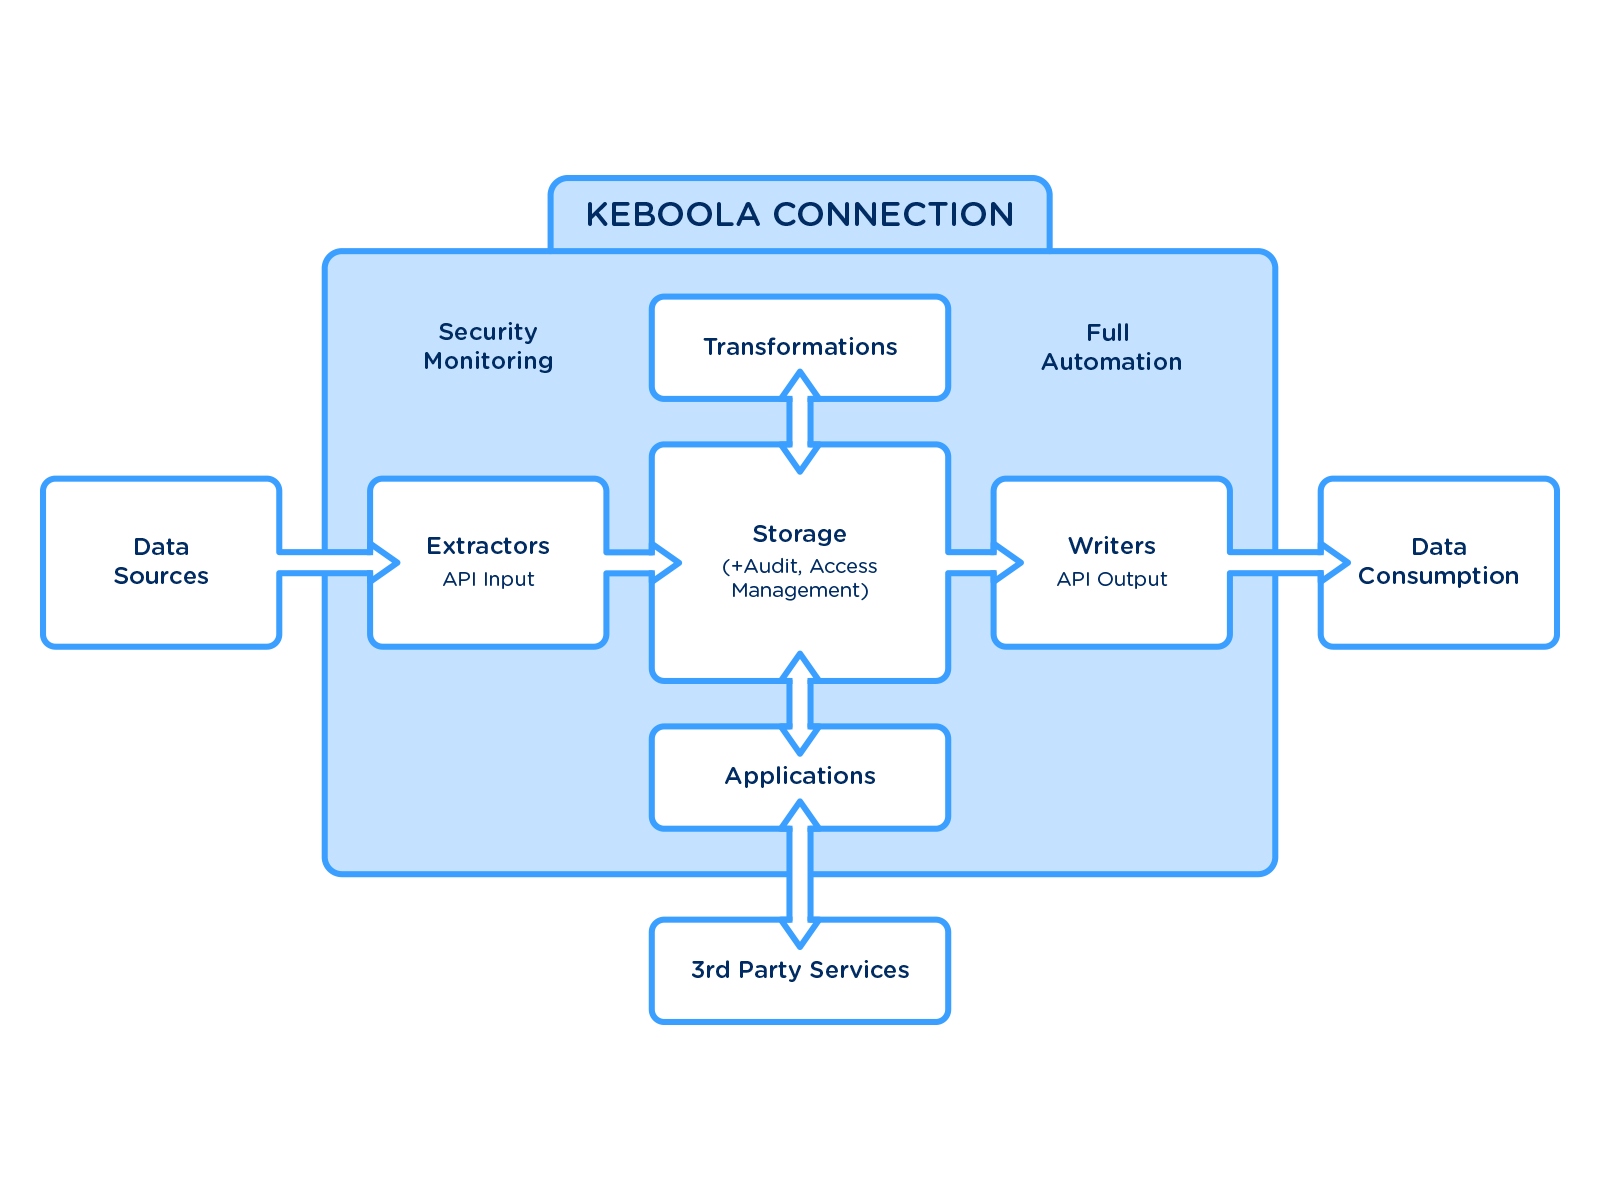
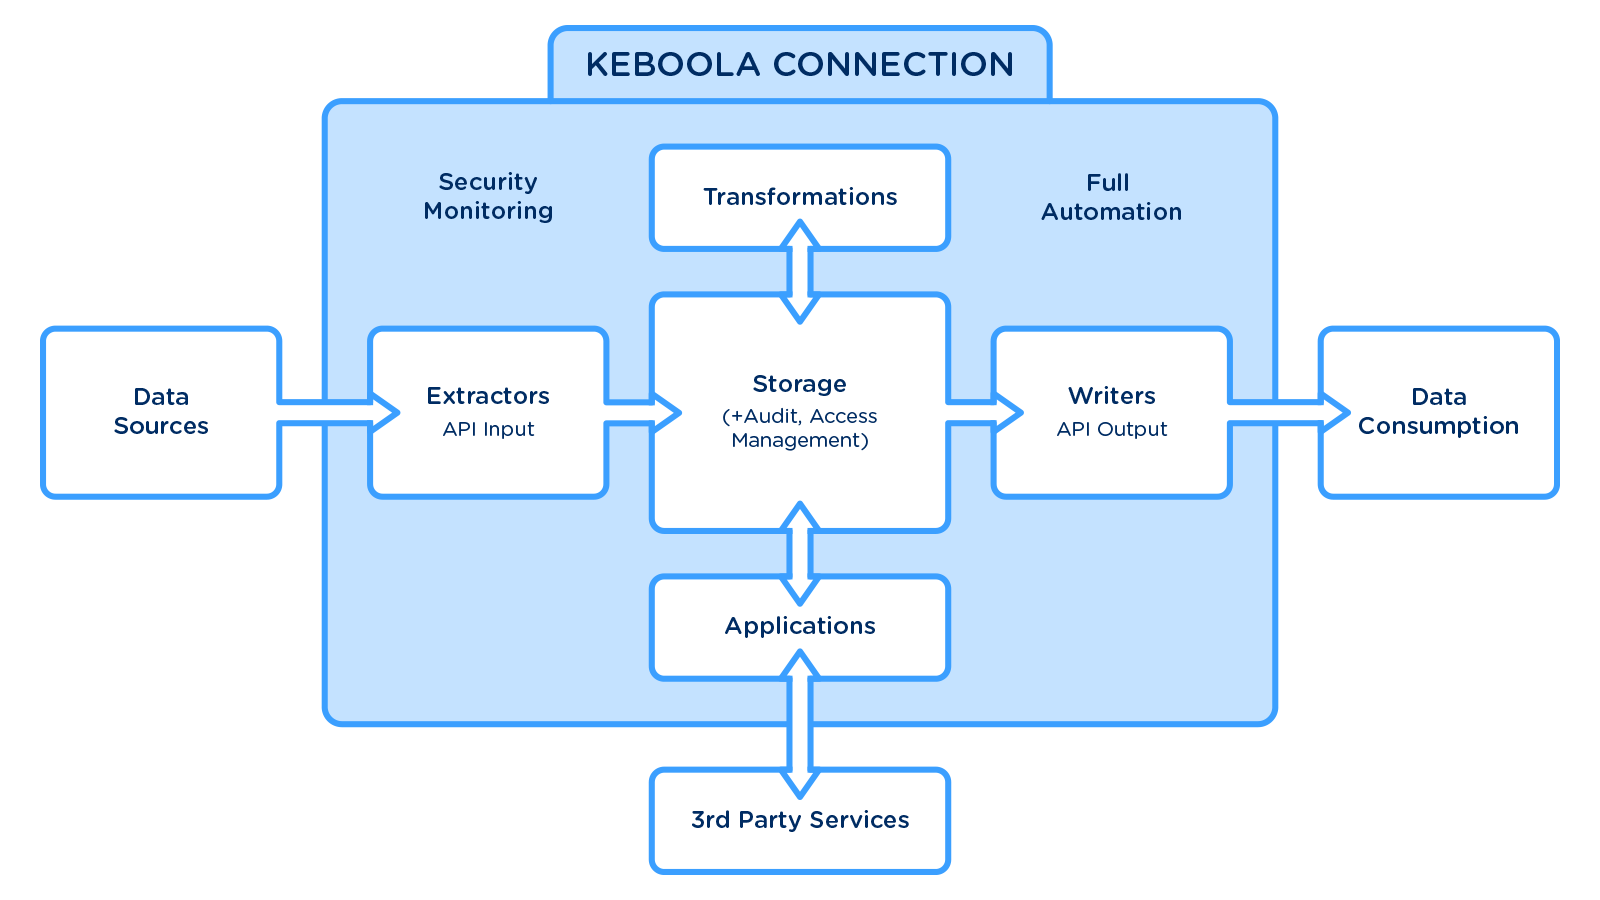
new font added + typography tuning

diff --git a/src/styles/app.less b/src/styles/app.less
@@ -264,7 +264,7 @@ a .kbcComponentIcon-3rdParty-64px {
     background-color: @color1;
     background-position: right -30px top -20px;
     background-repeat: no-repeat;
-    padding: 40px 30px;
+    padding: 40px 50px;
     color: #fff;
     min-height: 410px;
     border-radius: 5px;
@@ -276,15 +276,22 @@ a .kbcComponentIcon-3rdParty-64px {
     p {
       font-size: 14px;
       padding-top: 16px;
+      line-height: 1.5;
     }
     h1 {
-      font-size: 46px;
-      font-weight: bold;
+      font-size: 36px;
+      line-height: 40px;
+      font-family: "Gotham Rounded A", "Gotham Rounded B";
+      font-weight: 500;
+      margin-top: 0px;
     }
     h2 {
-      font-size: 46px;
-      line-height: 32px;
-      max-width: 80%
+      font-size: 36px;
+      line-height: 40px;
+      max-width: 80%;
+      font-family: "Gotham Rounded A", "Gotham Rounded B";
+      font-weight: 300;
+      margin-bottom: 0px;
     }
     ul {
       list-style: none;
@@ -292,7 +299,8 @@ a .kbcComponentIcon-3rdParty-64px {
       padding-left: 20px;
     }
     li {
-      padding: 4px 8px;
+      //padding: 4px 8px;
+      line-height: 1.5;
     }
     strong {
       font-weight: bold;
@@ -317,7 +325,13 @@ a .kbcComponentIcon-3rdParty-64px {
       float: left;
       font-size: 19px;
       line-height: 23px;
-      margin-left: 110px;
+      font-family: "Gotham Rounded A", "Gotham Rounded B";
+      font-weight: 300;
+      &:first-of-type{
+        font-weight: 500;
+        margin-left: 110px;
+
+      }
     }
     a {
       float: right;
@@ -327,9 +341,13 @@ a .kbcComponentIcon-3rdParty-64px {
         text-decoration: none;
       }
     }
+    strong{
+      font-weight: 400;
+    }
   }
 
   &-wizard {
+
     &.modal {
       .modal-content {
         border: 0;
@@ -338,12 +356,19 @@ a .kbcComponentIcon-3rdParty-64px {
         padding: 40px 40px 20px;
         color: @color1;
         border-bottom: 0;
-        h2 {
-          font-size: 36px;
-        }
+        font-family: "Gotham Rounded A", "Gotham Rounded B";
+        font-weight: 500;
         h1 {
           font-size: 36px;
-          font-weight: bold;
+          font-family: "Gotham Rounded A", "Gotham Rounded B";
+          font-weight: 500;
+          margin-top: 0px;
+        }
+        h2 {
+          font-size: 36px;
+          font-family: "Gotham Rounded A", "Gotham Rounded B";
+          font-weight: 300;
+          margin-bottom: 0;
         }
       }
       .modal-title {
@@ -353,6 +378,8 @@ a .kbcComponentIcon-3rdParty-64px {
         padding: 0 40px 20px;
         p {
           margin-bottom: 20px;
+          color: #7C8498;
+          line-height: 1.5;
         }
       }
       .modal-dialog {
@@ -394,10 +421,13 @@ a .kbcComponentIcon-3rdParty-64px {
     padding: @verticalPadding 0;
     border: 0;
     &-step {
-      padding: 8px;
+      padding: 0px;
+      padding-left: 8px;
+      line-height: 2;
       border: 0;
       font-size: 18px;
       margin-left: 24px;
+
       &-passed {
         &:before {
           left: -16px;
@@ -443,6 +473,8 @@ a .kbcComponentIcon-3rdParty-64px {
     font-size: 24px;
     color: #282d38;
     text-align: center;
+    font-family: "Gotham Rounded A", "Gotham Rounded B";
+    font-weight: 500;
   }
 
   &-float-next {

diff --git a/src/scripts/modules/try-mode/react/WizardModal.jsx b/src/scripts/modules/try-mode/react/WizardModal.jsx
@@ -200,7 +200,7 @@ export default React.createClass({
               return (
                   <ListGroupItem className={this.getStepState(step) + ' try-navigation-step'}>
                     <span>
-                      {step.id}. {step.title}
+                      {this.getLessonId()}.{step.id}. {step.title}
                     </span>
                   </ListGroupItem>
               );

diff --git a/src/scripts/modules/home/react/Index.jsx b/src/scripts/modules/home/react/Index.jsx
@@ -62,7 +62,7 @@ export default React.createClass({
           <div className="kbc-main-content try-desk-container">
             <div className="try-desk">
               <h2>Welcome to Keboola Connection</h2>
-              <h1>Try Mode!</h1>
+              <h1>Try Mode</h1>
               <div className="row">
                 <div className="col-xs-5">
                   <p>

diff --git a/index.html b/index.html
@@ -3,7 +3,7 @@
 <head>
   <meta charset="utf-8">
   <title>Keboola Connection</title>
-
+  <link rel="stylesheet" type="text/css" href="https://cloud.typography.com/7256532/6012792/css/fonts.css" />
 </head>
 <body>
 <section id="react"></section>
